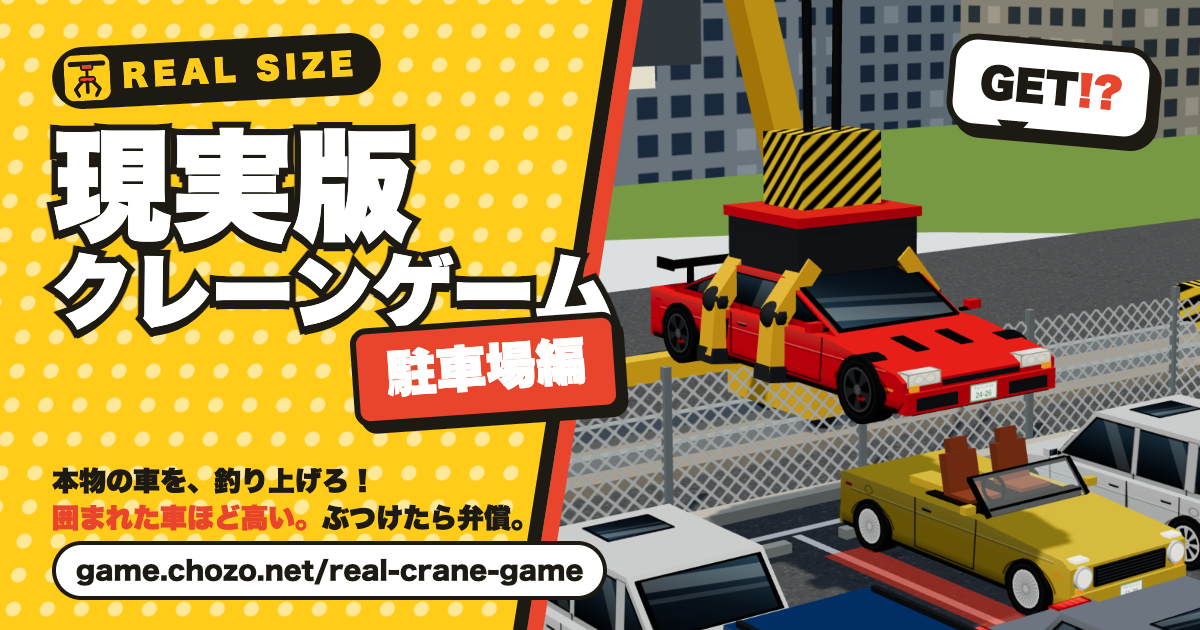
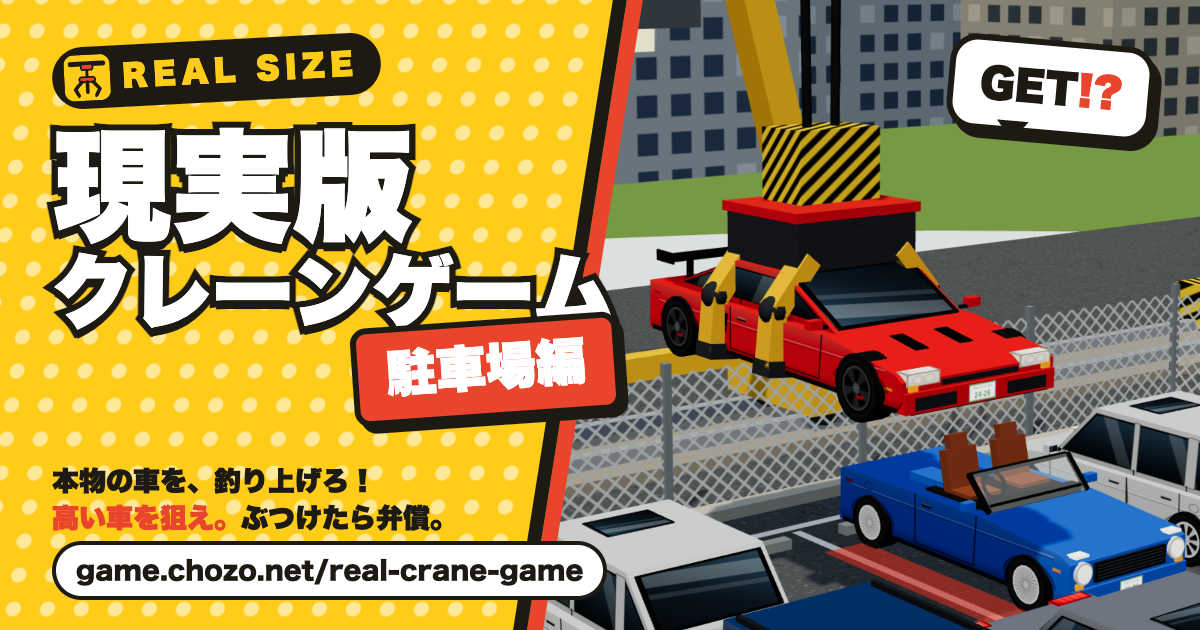
車の色を指定どおりにし、囲まれ度（★と価値の倍率）を廃止
- スポーツカーは赤か黄色、オープンカーは青か白（テストで固定）
- 価値＝車種ごとの基本価格×（1−傷）。値札と HUD の★・倍率を削除し、値札は金額と「傷あり」だけに
- タイトル・説明文・OGP 画像の一言を「高い車を狙え。でも隣にぶつけたら弁償。」に変更し、OGP 画像を撮り直し
- テストを新しいルールに合わせて更新（ロジック 38/38・画面 64/64・爆発 16/16）

diff --git a/src/game.html b/src/game.html
@@ -4,14 +4,14 @@
 <meta charset="utf-8">
 <meta name="viewport" content="width=device-width,initial-scale=1,maximum-scale=1,user-scalable=no,viewport-fit=cover">
 <title>現実版クレーンゲーム 駐車場編</title>
-<meta name="description" content="駐車場にびっしり停まった本物サイズの車を、巨大クレーンで1台ずつ釣り上げる3Dミニゲーム。囲まれた車ほど高いけど、隣にぶつけたら弁償。">
+<meta name="description" content="駐車場にびっしり停まった本物サイズの車を、巨大クレーンで1台ずつ釣り上げる3Dミニゲーム。高い車を狙え。でも隣にぶつけたら弁償。">
 <link rel="icon" href="./favicon.svg" type="image/svg+xml">
 <link rel="apple-touch-icon" href="./apple-touch-icon.png">
 <meta name="theme-color" content="#ffcc1a">
 <meta property="og:type" content="website">
 <meta property="og:site_name" content="現実版クレーンゲーム 駐車場編">
 <meta property="og:title" content="現実版クレーンゲーム 駐車場編">
-<meta property="og:description" content="駐車場にびっしり停まった本物サイズの車を、巨大クレーンで1台ずつ釣り上げる3Dミニゲーム。囲まれた車ほど高いけど、隣にぶつけたら弁償。">
+<meta property="og:description" content="駐車場にびっしり停まった本物サイズの車を、巨大クレーンで1台ずつ釣り上げる3Dミニゲーム。高い車を狙え。でも隣にぶつけたら弁償。">
 <meta property="og:url" content="https://game.chozo.net/real-crane-game/">
 <meta property="og:image" content="https://game.chozo.net/real-crane-game/ogp.png">
 <meta property="og:image:width" content="1200">
@@ -77,7 +77,6 @@
   /* v2.1：爪の真下の車（狙い）の情報。HUD の下に常時 */
   #hAim { margin-top:calc(var(--u)*1); display:inline-flex; align-items:center; gap:calc(var(--u)*2.2); background:rgba(255,250,236,.94); color:var(--ink);
     border-radius:calc(var(--u)*2.4); padding:calc(var(--u)*1) calc(var(--u)*2.6); font-size:calc(var(--u)*3.7); font-weight:800; white-space:nowrap; box-shadow:0 3px 10px rgba(0,0,0,.3); }
-  #hAim .stars { color:#e0a100; letter-spacing:.05em; } #hAim .stars i { color:#cfc6b0; font-style:normal; }
   #hAim .k { color:#6b6455; font-weight:700; }
   #hAim b.tight { color:#d8321b; } #hAim b.mid { color:#c98400; } #hAim b.wide { color:#2f8a3c; }
   #hAim.none { background:rgba(16,20,26,.72); color:var(--cream); }
@@ -211,7 +210,7 @@
       <div class="logo"><small>REAL SIZE</small><h1>現実版<br>クレーン<br>ゲーム<br><em>駐車場編</em></h1>
         <p><span class="nw">びっしり停まった駐車場から、</span><br><span class="nw">好きな1台を巨大クレーンで釣り上げろ。</span></p></div>
       <div class="foot">
-        <div class="how"><span class="nw">囲まれた車ほど高い。</span><span class="nw">でも隣にぶつけたら弁償。</span></div>
+        <div class="how"><span class="nw">高い車を狙え。</span><span class="nw">でも隣にぶつけたら弁償。</span></div>
         <button class="big" id="startBtn">スタート</button>
       </div>
     </div>
@@ -904,18 +903,17 @@ function carModel(car) {
   return { group: g, body: body, hit: hit, mats: mats, decals: [], bodyM: bodyM, trimM: CM.trim, look: look, wheelR: r };
 }
 
-// 値札（各車の上：価値と囲まれ度）
+// 値札（各車の上：価値。傷があれば「傷あり」）
 function tagTexture(car, selected) {
-  var v = L.carValue(lot, car), s = L.surround(lot, car), dmg = car.damage > 0.001;
+  var v = L.carValue(lot, car), dmg = car.damage > 0.001;
   return canvasTex(256, 128, function (g, w, h) {
     g.fillStyle = selected ? '#ffcc1a' : 'rgba(255,250,236,.95)';
     g.beginPath(); g.roundRect(6, 6, w - 12, 92, 18); g.fill();
     g.beginPath(); g.moveTo(w / 2 - 14, 96); g.lineTo(w / 2 + 14, 96); g.lineTo(w / 2, 120); g.closePath(); g.fill();
     g.strokeStyle = selected ? '#7a4a00' : 'rgba(0,0,0,.35)'; g.lineWidth = 4; g.beginPath(); g.roundRect(6, 6, w - 12, 92, 18); g.stroke();
     g.fillStyle = dmg ? '#c0301c' : '#1d1a14'; g.font = '900 62px sans-serif'; g.textAlign = 'center'; g.textBaseline = 'middle';
-    g.fillText('¥' + v + '万', w / 2, 40);
-    var st = ''; for (var i = 0; i < 4; i++) st += i < s.stars ? '★' : '☆';
-    g.font = '900 28px sans-serif'; g.fillStyle = '#d08a00'; g.fillText(st + (dmg ? ' 傷' : ''), w / 2, 82);
+    g.fillText('¥' + v + '万', w / 2, dmg ? 40 : 52);
+    if (dmg) { g.font = '900 28px sans-serif'; g.fillStyle = '#c0301c'; g.fillText('傷あり', w / 2, 82); }
   });
 }
 function updateTag(car) {
@@ -1422,18 +1420,15 @@ function updateHud() {
   $('hTries').textContent = rd ? 'のこり ' + t : '';
   var c = $('hCond'); c.innerHTML = '';
   if (!car) {
-    // 掴む前：爪の真下の車（狙い）の価値・囲まれ度・左右の隙間をライブで
+    // 掴む前：爪の真下の車（狙い）の価値・左右の隙間をライブで
     var a = state.aim; aimBox.innerHTML = ''; $('hAimWrap').style.display = '';
     if (!a) {
       $('hName').textContent = '爪の下に車なし'; $('hVal').style.display = 'none';
       aimBox.className = 'none'; aimBox.textContent = '車の真上へ動かすと狙いになる';
     } else {
-      var s = L.surround(lot, a), g = L.gaps(lot, a), sl = L.clawSlack(lot, a);
+      var g = L.gaps(lot, a), sl = L.clawSlack(lot, a);
       $('hName').textContent = a.type.name; $('hVal').style.display = ''; $('hVal').textContent = '¥' + L.carValue(lot, a) + '万';
       aimBox.className = '';
-      var st = document.createElement('span'); st.className = 'stars'; st.appendChild(document.createTextNode('★'.repeat(s.stars)));
-      var off = document.createElement('i'); off.textContent = '★'.repeat(4 - s.stars); st.appendChild(off); aimBox.appendChild(st);
-      var m = document.createElement('span'); m.textContent = '×' + s.mult.toFixed(2); aimBox.appendChild(m);
       var gk = document.createElement('span'); gk.className = 'k'; gk.textContent = '隙間'; aimBox.appendChild(gk);
       var gv = document.createElement('span');
       [['左', g.left, sl.left], ['右', g.right, sl.right]].forEach(function (q, k) {
@@ -1951,12 +1946,12 @@ window.__crane = {
     return {
       render: { calls: renderer.info.render.calls, tris: renderer.info.render.triangles, geos: renderer.info.memory.geometries, texs: renderer.info.memory.textures, frameAvg: frameAvg }, carMeshes: (function () { var n = 0; for (var id in models) models[id].body.traverse(function (o) { if (o.isMesh) n++; }); return n; })(),
       round: state.round, seed: SEED, tries: state.tries, audio: Sfx.ctx ? Sfx.ctx.state : null, selId: state.aimId, aimId: state.aimId,
-      aim: state.aim && (function (a) { var g = L.gaps(lot, a), s = L.surround(lot, a); return { id: a.id, type: a.type.id, x: a.x, z: a.z, com: L.comWorld(a), value: L.carValue(lot, a), stars: s.stars, mult: s.mult, gaps: g }; })(state.aim),
+      aim: state.aim && (function (a) { var g = L.gaps(lot, a); return { id: a.id, type: a.type.id, x: a.x, z: a.z, com: L.comWorld(a), value: L.carValue(lot, a), gaps: g }; })(state.aim),
       hud: { name: $('hName').textContent, val: $('hVal').style.display === 'none' ? '' : $('hVal').textContent, aim: $('hAimWrap').style.display === 'none' ? '' : $('hAim').textContent },
       crane: { x: cr.x, z: cr.z, vx: cr.vx, vz: cr.vz }, cable: state.cable, claw: { x: e.x, y: e.y, z: e.z }, gripped: state.gripped, stopKind: state.stopKind,
       target: car && { id: car.id, type: car.type.id, x: car.x, z: car.z, com: L.comWorld(car), value: state.rd.value, flip: car.flip },
       clawType: curP() ? curP().id : null,
-      cars: lot.cars.map(function (c) { return { id: c.id, type: c.type.id, row: c.row, col: c.col, x: c.x, z: c.z, present: c.present, value: L.carValue(lot, c), damage: c.damage, stars: L.surround(lot, c).stars }; }),
+      cars: lot.cars.map(function (c) { return { id: c.id, type: c.type.id, row: c.row, col: c.col, x: c.x, z: c.z, present: c.present, value: L.carValue(lot, c), damage: c.damage }; }),
       inZone: L.inZone(cr.x, cr.z), swingDeg: L.swingMag(state.swing) / DEG,
       swingAmpDeg: (function () { var s = state.swing, w = lf ? L.swingOmega(car.type, state.cable) : Math.sqrt(9.8 / L.swingLeff(null, state.cable)); return Math.hypot(Math.hypot(s.tx, s.wx / w), Math.hypot(s.tz, s.wz / w)) / DEG; })(),
       load: ld && { e: ld.e.slice(), tiltDeg: Math.hypot(ld.phi[0], ld.phi[1]) / DEG, maxTiltDeg: ld.maxTilt / DEG, maxSwingDeg: ld.maxSwing / DEG, slipping: ld.slipping, detached: ld.detached, cause: ld.cause || null, condition: ld.condition, inSlot: lf.inSlot, bottomY: L.loadBottomY(lf) },

diff --git a/tests/screens.js b/tests/screens.js
@@ -239,16 +239,16 @@ const overCom = i => [i.aim.x, i.aim.com[1]];
   await shot(page, '42_overview_oblique');
   await page.evaluate(() => window.__crane.cam(null));
 
-  // ---------------- ROUND 1：囲まれたスポーツカーを選び、真上から下ろして真っ直ぐ引き抜き、GET（無傷・接触なし）
+  // ---------------- ROUND 1：スポーツカーを選び、真上から下ろして真っ直ぐ引き抜き、GET（無傷・接触なし）
   log('[R1 スポーツカー：きれいに]');
-  const L1 = await page.evaluate(() => { const L = window.CraneLogic, i = window.__crane.info(); return i.cars.map(c => ({ id: c.id, type: c.type, stars: c.stars, value: c.value })); });
+  const L1 = await page.evaluate(() => { const L = window.CraneLogic, i = window.__crane.info(); return i.cars.map(c => ({ id: c.id, type: c.type, value: c.value })); });
   const sports = L1.find(c => c.type === 'sports');
   // 自由移動中のハイライト切替：まず隣の車の上 → スポーツカーの上へ。爪の真下の車が切り替わる
   const lotInfo = await page.evaluate(() => { const L = window.CraneLogic, i = window.__crane.info(), lot = L.makeLot(i.seed); return lot.cars.map(c => ({ id: c.id, nb: L.neighbors(lot, c) })).map(o => ({ id: o.id, left: o.nb.left && o.nb.left.id, right: o.nb.right && o.nb.right.id })); });
   const nbOf = lotInfo[sports.id], firstId = nbOf.left != null ? nbOf.left : nbOf.right;
   i = await aimAt(page, firstId);
   const first = L1.find(c => c.id === firstId);
-  check('自由移動：爪の真下の車がライブで狙いになる（値札ハイライト・HUD に価値・囲まれ度・隙間）', i.aimId === firstId && i.hud.name.length > 0 && i.hud.val === '¥' + first.value + '万' && /隙間/.test(i.hud.aim) && /★/.test(i.hud.aim) && !i.actDisabled, JSON.stringify(i.hud));
+  check('自由移動：爪の真下の車がライブで狙いになる（値札ハイライト・HUD に価値・隙間。★と倍率は出さない）', i.aimId === firstId && i.hud.name.length > 0 && i.hud.val === '¥' + first.value + '万' && /隙間/.test(i.hud.aim) && !/[★☆×]/.test(i.hud.aim) && !i.actDisabled, JSON.stringify(i.hud));
   check('自由移動：狙いの車種に合わせて爪の大きさが変わる', i.clawType === first.type, `claw=${i.clawType} car=${first.type}`);
   check('v2.4 狙いを当てた車の値札だけ消える（他は表示）', !i.tagsVisible.aimShown && i.tagsVisible.shown === i.tagsVisible.present - 1 && JSON.stringify(i.tagsVisible.hiddenIds) === JSON.stringify([firstId]), JSON.stringify(i.tagsVisible));
   await shot(page, '02_aim_switch_a');
@@ -274,7 +274,7 @@ const overCom = i => [i.aim.x, i.aim.com[1]];
   // v2.6：ボタンを押さずに自動で掴む
   await waitFor(page, () => ['closed', 'lift', 'carry'].includes(window.__crane.phase), null, 10000);
   i = await info(page);
-  check('R1 掴んだ時点で対象が確定（target=スポーツカー、価値は囲まれ度込み）', i.target && i.target.id === sports.id && i.target.value === sports.value && i.hud.aim === '', `target=${i.target && i.target.id} value=${i.target && i.target.value}`);
+  check('R1 掴んだ時点で対象が確定（target=スポーツカー、価値＝基本価格）', i.target && i.target.id === sports.id && i.target.value === sports.value && i.hud.aim === '', `target=${i.target && i.target.id} value=${i.target && i.target.value}`);
   // v2.6：引き抜きも自動
   await waitFor(page, () => { const i = window.__crane.info(); return window.__crane.phase === 'carry' || (window.__crane.phase === 'lift' && i.load && i.load.bottomY > 0.55); });
   await shot(page, '05_pull');
@@ -295,7 +295,7 @@ const overCom = i => [i.aim.x, i.aim.com[1]];
   check('GET の瞬間に写真を1枚撮った（kind=get）', i.photo && i.photo.kind === 'get' && i.photoCount === 1, JSON.stringify(i.photo && { kind: i.photo.kind, ms: i.photo.ms, prof: i.photo.prof }));
   await sleep(1800); // 写真の「現像」アニメーション
   let pc = await photoCard(page, '06p_get_photo.jpg');
-  check('GET カードにポラロイド写真（640px・中身あり・画面内・キャプション）', /show/.test(pc.cls) && !/fail/.test(pc.cls) && pc.nw === 640 && pc.sd > 15 && pc.inside && /GET!/.test(pc.cap) && /¥720万/.test(pc.cap), JSON.stringify(pc));
+  check('GET カードにポラロイド写真（640px・中身あり・画面内・キャプション）', /show/.test(pc.cls) && !/fail/.test(pc.cls) && pc.nw === 640 && pc.sd > 15 && pc.inside && /GET!/.test(pc.cap) && pc.cap.includes('¥' + i.results[0].value + '万'), JSON.stringify(pc)); // 価値は囲まれ度の廃止（2026-11-24）で基本価格どおり
   await shot(page, '06b_get_card');
   await page.click('#cBtn');
 

diff --git a/src/logic.js b/src/logic.js
@@ -4,7 +4,7 @@
  * 座標：x＝レール方向（画面の左右）、z＝トロリー方向（画面の前後、+z が手前）、y＝上。
  * 車の向き yaw は three.js の rotation.y と同じ（ローカル +x＝長手方向）。駐車場の車は yaw=π/2（長手が z 方向）。
  * v1 から継続：クレーン移動、振り子、重心ずれ→傾き→滑落、着地の衝撃、スコア。
- * v2 で追加：駐車場の生成、囲まれ度と価値、爪の下降時の接触、吊った車と隣の車の接触（こすった／ぶつけた）。
+ * v2 で追加：駐車場の生成、車の価値（囲まれ度は 2026-11-24 に廃止）、爪の下降時の接触、吊った車と隣の車の接触（こすった／ぶつけた）。
  */
 (function (root) {
   'use strict';
@@ -40,10 +40,10 @@
       colors: [0x2f5a3c, 0x8a6a4a, 0xdcdcd6, 0x1f3f6e] },
     { id: 'open', name: 'オープンカー', base: 300, mass: 1150, L: 3.95, W: 1.74, H: 1.22, lowTop: 0.86, cabL: 0, cabX: 0,
       com: [0.18, 0], comH: 0.40, grip: 0.62, tiltLimit: 20 * DEG, swingLimit: 22 * DEG, damp: 0.165, scratchK: 1.3,
-      colors: [0xd8b02a, 0x22a0c8, 0xb02a4a] },
+      colors: [0x2f6fd8, 0xf4f4f0] }, // オープンカーは青か白（2026-11-24 ユーザー指定）
     { id: 'sports', name: 'スポーツカー', base: 400, mass: 1400, L: 4.45, W: 1.90, H: 1.18, lowTop: 0.72, cabL: 0.36, cabX: -0.04,
       com: [-0.30, 0], comH: 0.38, grip: 0.62, tiltLimit: 18 * DEG, swingLimit: 21 * DEG, damp: 0.18, scratchK: 1.5,
-      colors: [0xe02818, 0xf2c200, 0x111316] }
+      colors: [0xe02818, 0xf2c200] }  // スポーツカーは赤か黄色（2026-11-24 ユーザー指定）
   ];
   function typeById(id) { for (var i = 0; i < CAR_TYPES.length; i++) if (CAR_TYPES[i].id === id) return CAR_TYPES[i]; return null; }
   /** 屋根（掴む面）の高さ。l は車の前（ノーズ）向きを + とした長手位置 */
@@ -108,14 +108,8 @@
   function neighbors(lot, car) {
     return { left: carAt(lot, car.row, car.col - 1), right: carAt(lot, car.row, car.col + 1), across: carAt(lot, 1 - car.row, car.col) };
   }
-  /** 囲まれ度：左右の車（各 +0.3）、背中合わせの車（+0.2）、奥の列（+0.15） */
-  function surround(lot, car) {
-    var nb = neighbors(lot, car);
-    var side = (nb.left ? 1 : 0) + (nb.right ? 1 : 0), across = nb.across ? 1 : 0, back = car.row === 0 ? 1 : 0;
-    var mult = 1 + 0.3 * side + 0.2 * across + 0.15 * back;
-    return { side: side, across: across, back: back, stars: side + across + back, mult: Math.round(mult * 100) / 100 };
-  }
-  function carValue(lot, car) { return Math.round(car.type.base * surround(lot, car).mult * (1 - clamp(car.damage, 0, 0.9))); }
+  /** 価値＝基本価格 ×（1 − 傷）。2026-11-24 にユーザー指定で「囲まれ度」（隣の車の数で価値が上がる倍率と★）を廃止。lot は呼び出し互換のため残す */
+  function carValue(lot, car) { return Math.round(car.type.base * (1 - clamp(car.damage, 0, 0.9))); }
   /** 左右の隙間（m）。隣が空なら null（＝広い） */
   function gaps(lot, car) {
     var nb = neighbors(lot, car), W = car.type.W;
@@ -674,7 +668,7 @@
     G: G, DEG: DEG, CAR_TYPES: CAR_TYPES, LOT: LOT, YARD: YARD, ZONE: ZONE, CRANE: CRANE, CLAW: CLAW, CONTACT: CONTACT, TRIES: TRIES, ROUNDS: ROUNDS,
     clamp: clamp, lerp: lerp, rng: rng, typeById: typeById, topAt: topAt, topAtWorld: topAtWorld,
     clawScale: clawScale, carryCable: carryCable, clawReach: clawReach, fingerZ: fingerZ, fingerDepth: fingerDepth,
-    stallPos: stallPos, makeLot: makeLot, carAt: carAt, neighbors: neighbors, surround: surround, carValue: carValue, gaps: gaps, clawSlack: clawSlack,
+    stallPos: stallPos, makeLot: makeLot, carAt: carAt, neighbors: neighbors, carValue: carValue, gaps: gaps, clawSlack: clawSlack,
     presentCars: presentCars, toLocal: toLocal, toWorld: toWorld, comWorld: comWorld, inFootprint: inFootprint,
     clawProbe: clawProbe, simulateDescent: simulateDescent, gripInfo: gripInfo,
     tiltTarget: tiltTarget, slipOffset: slipOffset, liftSpeed: liftSpeed, swingOmega: swingOmega, swingLeff: swingLeff,

diff --git a/SPEC.md b/SPEC.md
@@ -2,6 +2,8 @@
 
 （2026-11-24 にタイトルを「クレーンゲーム現実版」から「現実版クレーンゲーム」に変更）
 
+**2026-11-24 の変更**：「囲まれ度」（隣接する車・奥の区画ほど価値が上がる倍率と★の表示）を廃止。価値は車種ごとの基本価格 ×（1 − 傷）だけ。下の本文の囲まれ度に関する記述は旧仕様。
+
 巨大なクレーンで車を吊り上げるクレーンゲーム。v2では構成を変更する（ユーザー指示 2026-11-23）：
 **更地に景品が1個ずつ、ではなく、駐車場にびっしり停まった車の中から、好みの1台を選んでクレーンで釣り上げる。**
 家・ATMは無し。車だけ。
